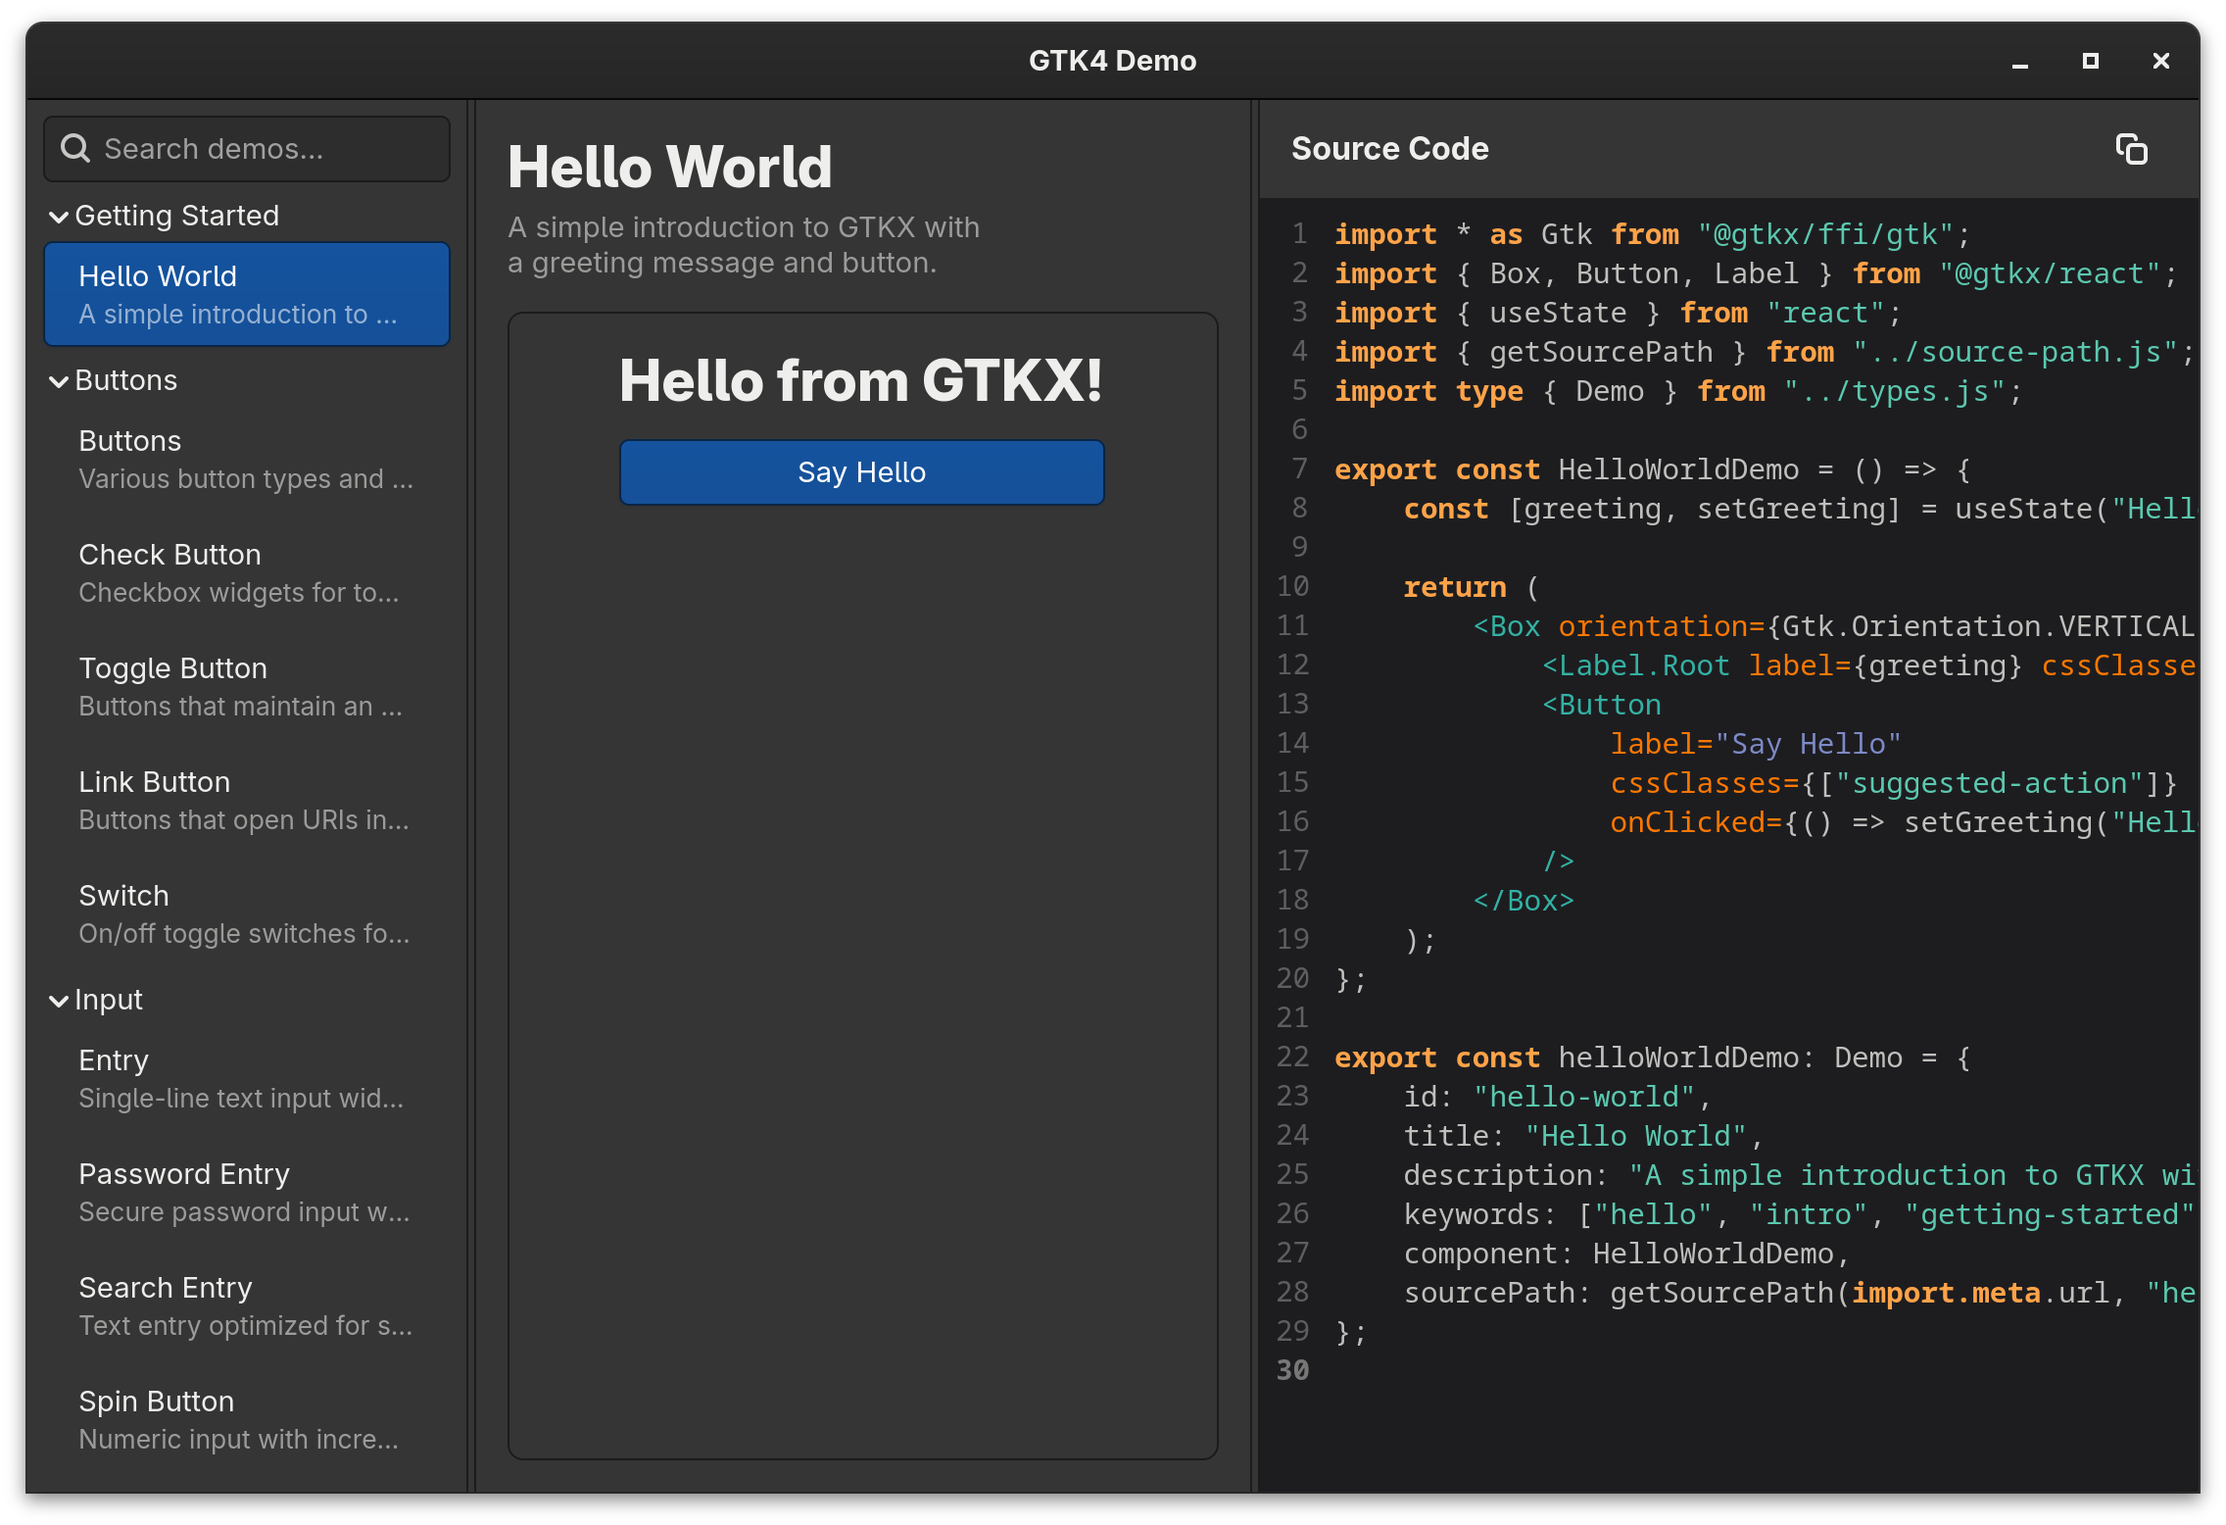
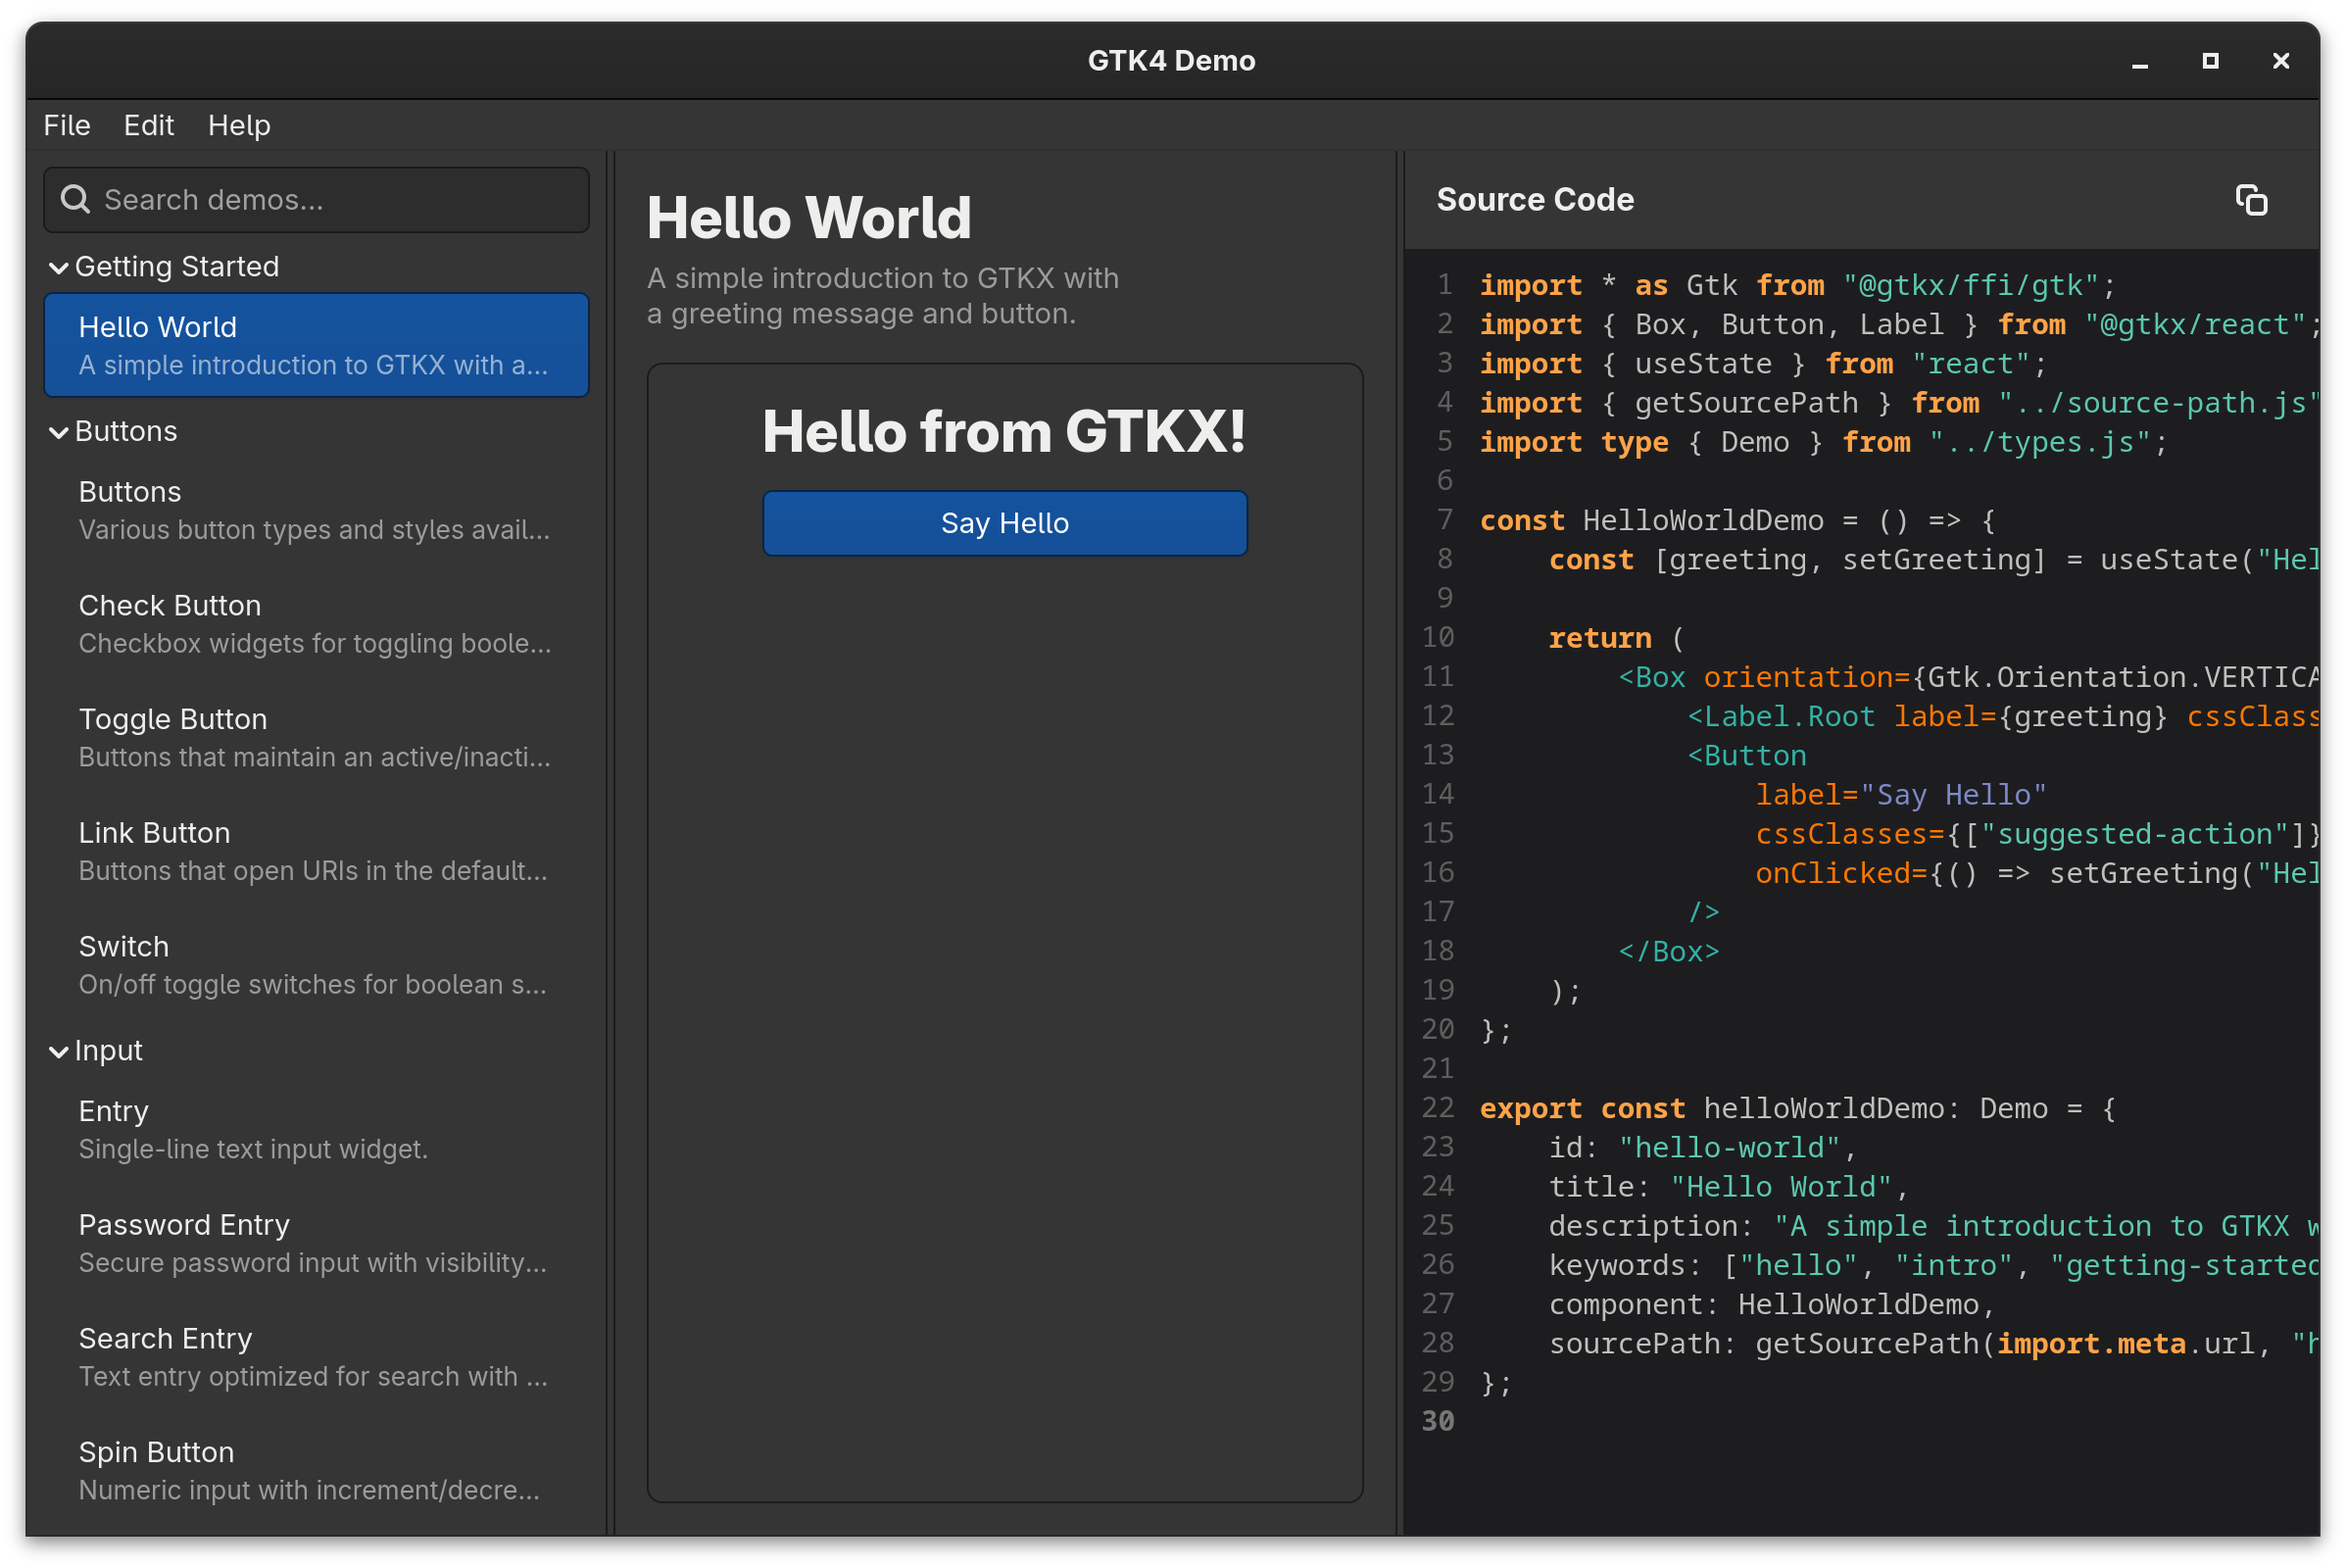
Add menus guide

diff --git a/examples/gtk4-demo/src/app.tsx b/examples/gtk4-demo/src/app.tsx
@@ -51,7 +51,25 @@ export const App = () => (
     <DemoProvider categories={categories}>
         <ApplicationMenu>
             <Menu.Submenu label="File">
-                <Menu.Item label="Quit" onActivate={quit} accels="<Control>q" />
+                <Menu.Item label="New Document" onActivate={() => console.log("New Document")} accels="<Control>n" />
+                <Menu.Item label="Open..." onActivate={() => console.log("Open")} accels="<Control>o" />
+                <Menu.Item label="Save" onActivate={() => console.log("Save")} accels="<Control>s" />
+                <Menu.Section>
+                    <Menu.Item label="Quit" onActivate={quit} accels="<Control>q" />
+                </Menu.Section>
+            </Menu.Submenu>
+            <Menu.Submenu label="Edit">
+                <Menu.Item label="Undo" onActivate={() => console.log("Undo")} accels="<Control>z" />
+                <Menu.Item label="Redo" onActivate={() => console.log("Redo")} accels="<Control><Shift>z" />
+                <Menu.Section>
+                    <Menu.Item label="Cut" onActivate={() => console.log("Cut")} accels="<Control>x" />
+                    <Menu.Item label="Copy" onActivate={() => console.log("Copy")} accels="<Control>c" />
+                    <Menu.Item label="Paste" onActivate={() => console.log("Paste")} accels="<Control>v" />
+                </Menu.Section>
+            </Menu.Submenu>
+            <Menu.Submenu label="Help">
+                <Menu.Item label="Documentation" onActivate={() => console.log("Documentation")} accels="F1" />
+                <Menu.Item label="About" onActivate={() => console.log("About")} />
             </Menu.Submenu>
         </ApplicationMenu>
         <ApplicationWindow title="GTK4 Demo" defaultWidth={1400} defaultHeight={900} showMenubar onCloseRequest={quit}>

diff --git a/examples/gtk4-demo/src/demos/drawing/drawing-area.tsx b/examples/gtk4-demo/src/demos/drawing/drawing-area.tsx
@@ -11,6 +11,9 @@ import type { Demo } from "../types.js";
  */
 function drawCallback(...args: unknown[]) {
     const [_self, cr, width, height] = args as [Gtk.DrawingArea, unknown, number, number];
+
+    if (width <= 0 || height <= 0) return;
+
     // White background
     cairo.setSourceRgb(cr, 1, 1, 1);
     cairo.paint(cr);
@@ -67,6 +70,10 @@ const DrawingAreaDemo = () => {
         area.setDrawFunc(drawCallback);
     }, []);
 
+    const handleResize = useCallback((self: Gtk.DrawingArea) => {
+        self.queueDraw();
+    }, []);
+
     return (
         <Box orientation={Gtk.Orientation.VERTICAL} spacing={12} marginStart={20} marginEnd={20} marginTop={20}>
             <Label.Root label="Drawing Area" cssClasses={["title-2"]} halign={Gtk.Align.START} />
@@ -76,7 +83,14 @@ const DrawingAreaDemo = () => {
                 cssClasses={["dim-label"]}
             />
 
-            <DrawingArea contentWidth={300} contentHeight={300} vexpand hexpand onRealize={handleRealize} />
+            <DrawingArea
+                contentWidth={300}
+                contentHeight={300}
+                vexpand
+                hexpand
+                onRealize={handleRealize}
+                onResize={handleResize}
+            />
         </Box>
     );
 };
@@ -87,5 +101,5 @@ export const drawingAreaDemo: Demo = {
     description: "Custom 2D drawing with Cairo in a GtkDrawingArea widget.",
     keywords: ["drawing", "cairo", "graphics", "canvas", "vector", "shapes", "custom"],
     component: DrawingAreaDemo,
-    sourcePath: getSourcePath(import.meta.url, "drawingarea.tsx"),
+    sourcePath: getSourcePath(import.meta.url, "drawing-area.tsx"),
 };

diff --git a/examples/gtk4-demo/src/demos/menus/index.ts b/examples/gtk4-demo/src/demos/menus/index.ts
@@ -1,14 +1,7 @@
 import type { Demo } from "../types.js";
-import { applicationMenuDemo } from "./application-menu.js";
 import { menuButtonDemo } from "./menu-button.js";
 import { popoverDemo } from "./popover.js";
 import { popoverMenuDemo } from "./popover-menu.js";
 import { popoverMenuBarDemo } from "./popover-menu-bar.js";
 
-export const menusDemos: Demo[] = [
-    applicationMenuDemo,
-    popoverDemo,
-    menuButtonDemo,
-    popoverMenuDemo,
-    popoverMenuBarDemo,
-];
+export const menusDemos: Demo[] = [popoverDemo, menuButtonDemo, popoverMenuDemo, popoverMenuBarDemo];

diff --git a/examples/gtk4-demo/src/demos/lists/list-view.tsx b/examples/gtk4-demo/src/demos/lists/list-view.tsx
@@ -75,5 +75,5 @@ export const listViewDemo: Demo = {
     description: "High-performance scrollable list with virtual scrolling.",
     keywords: ["listview", "list", "scroll", "virtual", "performance", "GtkListView"],
     component: ListViewDemo,
-    sourcePath: getSourcePath(import.meta.url, "listview.tsx"),
+    sourcePath: getSourcePath(import.meta.url, "list-view.tsx"),
 };

diff --git a/examples/gtk4-demo/src/demos/gl-shaders/gl-area.tsx b/examples/gtk4-demo/src/demos/gl-shaders/gl-area.tsx
@@ -372,5 +372,5 @@ export const glAreaDemo: Demo = {
     description: "OpenGL rendering with shaders in a GtkGLArea widget.",
     keywords: ["opengl", "gl", "glarea", "shader", "3d", "graphics", "rendering", "triangle"],
     component: GLAreaDemo,
-    sourcePath: getSourcePath(import.meta.url, "glarea.tsx"),
+    sourcePath: getSourcePath(import.meta.url, "gl-area.tsx"),
 };

diff --git a/examples/gtk4-demo/src/demos/display/progress-bar.tsx b/examples/gtk4-demo/src/demos/display/progress-bar.tsx
@@ -93,5 +93,5 @@ export const progressBarDemo: Demo = {
     description: "Visual indicator for operation progress.",
     keywords: ["progress", "bar", "loading", "percentage", "GtkProgressBar"],
     component: ProgressBarDemo,
-    sourcePath: getSourcePath(import.meta.url, "progressbar.tsx"),
+    sourcePath: getSourcePath(import.meta.url, "progress-bar.tsx"),
 };

diff --git a/examples/gtk4-demo/src/demos/menus/menu-button.tsx b/examples/gtk4-demo/src/demos/menus/menu-button.tsx
@@ -174,5 +174,5 @@ export const menuButtonDemo: Demo = {
     description: "Button that shows a popover menu when clicked.",
     keywords: ["menu", "button", "popover", "dropdown", "GtkMenuButton"],
     component: MenuButtonDemo,
-    sourcePath: getSourcePath(import.meta.url, "menubutton.tsx"),
+    sourcePath: getSourcePath(import.meta.url, "menu-button.tsx"),
 };

diff --git a/examples/gtk4-demo/src/demos/text/text-view.tsx b/examples/gtk4-demo/src/demos/text/text-view.tsx
@@ -84,5 +84,5 @@ export const textViewDemo: Demo = {
     description: "Multi-line text editor with rich formatting support.",
     keywords: ["text", "textview", "editor", "multiline", "GtkTextView"],
     component: TextViewDemo,
-    sourcePath: getSourcePath(import.meta.url, "textview.tsx"),
+    sourcePath: getSourcePath(import.meta.url, "text-view.tsx"),
 };

diff --git a/examples/gtk4-demo/src/demos/lists/drop-down.tsx b/examples/gtk4-demo/src/demos/lists/drop-down.tsx
@@ -87,5 +87,5 @@ export const dropDownDemo: Demo = {
     description: "Modern replacement for combo boxes with custom items.",
     keywords: ["dropdown", "combo", "select", "list", "GtkDropDown"],
     component: DropDownDemo,
-    sourcePath: getSourcePath(import.meta.url, "dropdown.tsx"),
+    sourcePath: getSourcePath(import.meta.url, "drop-down.tsx"),
 };

diff --git a/examples/gtk4-demo/src/demos/windows/header-bar.tsx b/examples/gtk4-demo/src/demos/windows/header-bar.tsx
@@ -105,5 +105,5 @@ export const headerBarDemo: Demo = {
     description: "Window header bar with title and action buttons.",
     keywords: ["header", "bar", "title", "toolbar", "GtkHeaderBar"],
     component: HeaderBarDemo,
-    sourcePath: getSourcePath(import.meta.url, "headerbar.tsx"),
+    sourcePath: getSourcePath(import.meta.url, "header-bar.tsx"),
 };

diff --git a/examples/gtk4-demo/src/demos/lists/list-box.tsx b/examples/gtk4-demo/src/demos/lists/list-box.tsx
@@ -85,5 +85,5 @@ export const listBoxDemo: Demo = {
     description: "Vertical list with selectable rows and custom layouts.",
     keywords: ["list", "listbox", "selection", "rows", "GtkListBox"],
     component: ListBoxDemo,
-    sourcePath: getSourcePath(import.meta.url, "listbox.tsx"),
+    sourcePath: getSourcePath(import.meta.url, "list-box.tsx"),
 };

diff --git a/examples/gtk4-demo/src/demos/lists/flow-box.tsx b/examples/gtk4-demo/src/demos/lists/flow-box.tsx
@@ -95,5 +95,5 @@ export const flowBoxDemo: Demo = {
     description: "Container that reflows children based on available space.",
     keywords: ["flowbox", "flow", "grid", "wrap", "GtkFlowBox"],
     component: FlowBoxDemo,
-    sourcePath: getSourcePath(import.meta.url, "flowbox.tsx"),
+    sourcePath: getSourcePath(import.meta.url, "flow-box.tsx"),
 };
